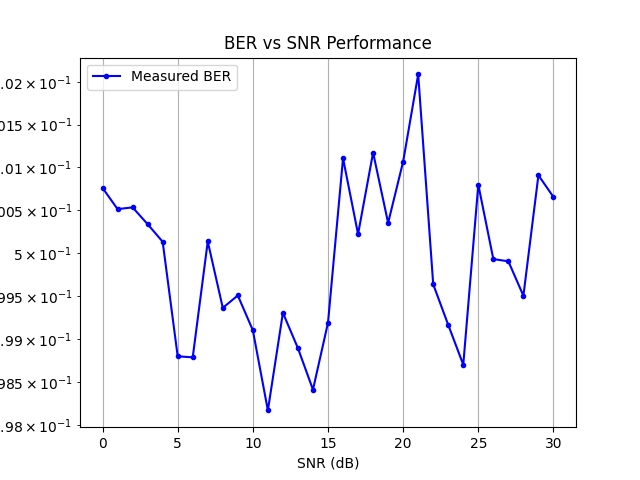
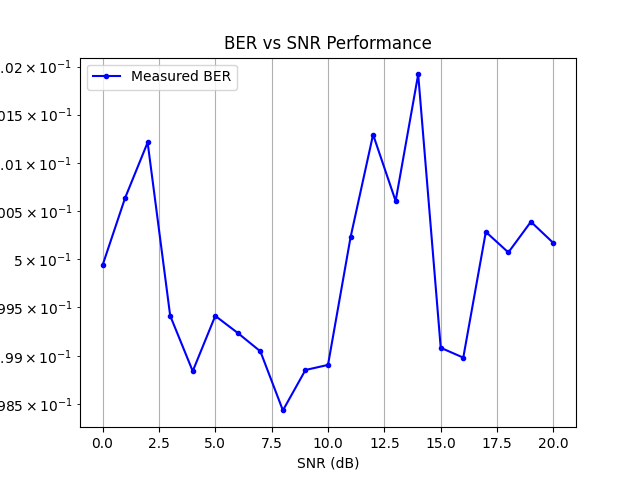
Fix

diff --git a/Data/dataset_generator/mimo_dataset_generator.py b/Data/dataset_generator/mimo_dataset_generator.py
@@ -44,7 +44,7 @@ from utill.tensor_shape_validator import validate_mimo_tensor_shapes
 from utill.tensor_shape_validator import validate_mimo_metrics
 from tqdm import tqdm
 from core.path_loss_model import PathLossManager
-
+import sionna as sn
 
 class MIMODatasetGenerator:
     def __init__(
@@ -98,6 +98,9 @@ class MIMODatasetGenerator:
 
     def _generate_batch_data(self, batch_size: int, mod_scheme: str = 'QPSK') -> Dict[str, tf.Tensor]:
         try:
+            # Create AWGN channel
+            awgn_channel = sn.channel.AWGN()
+            
             # Generate distances and path loss (ensure float32)
             distances = tf.cast(
                 tf.random.uniform([batch_size], minval=10.0, maxval=500.0),
@@ -145,49 +148,29 @@ class MIMODatasetGenerator:
             else:
                 raise ValueError(f"Unsupported modulation scheme: {mod_scheme}")
 
-            # Calculate signal power
-            signal_power = tf.cast(tf.reduce_mean(tf.abs(tx_symbols) ** 2), tf.float32)
-
-            # Convert SNR from dB to linear scale and prepare for complex multiplication
-            snr_linear = tf.pow(10.0, snr_db/10.0)
-            snr_scaling = tf.cast(
-                tf.complex(
-                    tf.sqrt(snr_linear),
-                    tf.zeros_like(snr_linear)
-                ),
-                tf.complex64
-            )
-            
-            # Reshape SNR scaling for broadcasting
-            snr_scaling = tf.reshape(snr_scaling, [batch_size, 1, 1])
-            
-            # Scale channel response (now both complex64)
-            scaled_channel = channel_response * snr_scaling / tf.cast(
+            # Scale channel response for normalization
+            scaled_channel = channel_response / tf.cast(
                 tf.sqrt(tf.cast(self.system_params.num_tx_antennas, tf.float32)),
                 tf.complex64
             )
             
-            # Calculate received symbols
+            # Calculate received symbols without noise
             x = tf.expand_dims(tx_symbols, -1)
             y_without_noise = tf.matmul(scaled_channel, x)
             y_without_noise = tf.squeeze(y_without_noise, -1)
 
-            # Calculate noise power and stddev
-            noise_power = tf.cast(signal_power / snr_linear, tf.float32)
-            noise_stddev = tf.sqrt(noise_power/2.0)
-            
-            # Generate complex noise with proper shape and scaling
-            noise_shape = tf.shape(y_without_noise)
-            noise_stddev = tf.reshape(noise_stddev, [batch_size, 1])
-            
-            noise = tf.complex(
-                tf.random.normal(tf.shape(y_without_noise), stddev=noise_stddev),
-                tf.random.normal(tf.shape(y_without_noise), stddev=noise_stddev)
+            # Calculate proper noise power using Sionna's utility
+            no = sn.utils.ebnodb2no(
+                ebno_db=snr_db,
+                num_bits_per_symbol=2,  # QPSK has 2 bits per symbol
+                coderate=1.0  # Uncoded transmission
             )
-            noise = tf.cast(noise, tf.complex64)
-
-            # Add noise
-            rx_symbols = y_without_noise + noise
+            
+            # Reshape no for broadcasting
+            no = tf.reshape(no, [batch_size, 1])
+            
+            # Apply AWGN channel with proper noise scaling
+            rx_symbols = awgn_channel([y_without_noise, no])
             
             # Calculate metrics
             metrics = self.metrics_calculator.calculate_enhanced_metrics(
